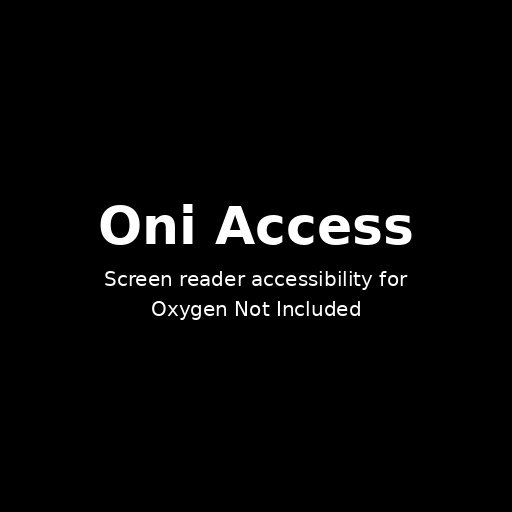
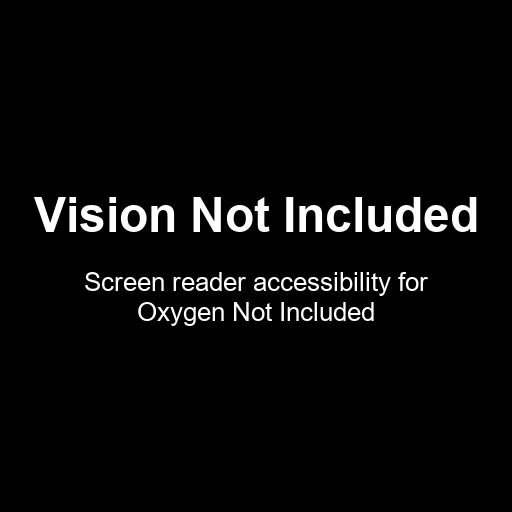
Rebrand mod to Vision Not Included
Rename all user-facing text from Oni Access to Vision Not Included:
spoken announcements, mod title, docs, EnableMod tool dialogs (Windows
and Mac), and the preview image. Internal identifiers (namespace,
staticID, translation keys, folders) stay OniAccess to preserve existing
users' settings and translations. Rebuilt EnableMod.exe.

Changed region(s): [[0.0625, 0.375, 0.9375, 0.5], [0.1562, 0.5312, 0.8438, 0.6562]]

diff --git a/EnableMod/Program.cs b/EnableMod/Program.cs
@@ -44,15 +44,15 @@ static class Program {
 			} catch (Exception ex) {
 				MessageBox.Show(
 					"Failed to update mod config: " + ex.Message,
-					"OniAccess",
+					"Vision Not Included",
 					MessageBoxButtons.OK,
 					MessageBoxIcon.Error);
 				return;
 			}
 
 			var result = MessageBox.Show(
-				"OniAccess enabled. Launch the game?",
-				"OniAccess",
+				"Vision Not Included enabled. Launch the game?",
+				"Vision Not Included",
 				MessageBoxButtons.YesNo,
 				MessageBoxIcon.Information);
 			if (result == DialogResult.Yes)
@@ -130,7 +130,7 @@ static class Program {
 
 	static NotFoundAction ShowNotFoundDialog() {
 		using (var form = new Form()) {
-			form.Text = "OniAccess";
+			form.Text = "Vision Not Included";
 			form.StartPosition = FormStartPosition.CenterScreen;
 			form.FormBorderStyle = FormBorderStyle.FixedDialog;
 			form.MaximizeBox = false;
@@ -138,7 +138,7 @@ static class Program {
 			form.ClientSize = new System.Drawing.Size(450, 140);
 
 			var message = new Label {
-				Text = "Could not find the OniAccess mod config.\n\n" +
+				Text = "Could not find the Vision Not Included mod config.\n\n" +
 					   "If you haven't subscribed yet, click Open Workshop Page.\n" +
 					   "If you have subscribed, launch the game once, close it, then click Try Again.",
 				Location = new System.Drawing.Point(12, 12),

diff --git a/OniAccess/OniAccessStrings.cs b/OniAccess/OniAccessStrings.cs
@@ -17,9 +17,9 @@ namespace STRINGS {
 		// System-level speech announcements
 		public class SPEECH {
 			// {0} = mod version string (e.g. "1.2.3")
-			public static LocString MOD_LOADED = "Oni-Access version {0} loaded";
-			public static LocString MOD_ON = "Oni-Access on";
-			public static LocString MOD_OFF = "Oni-Access off";
+			public static LocString MOD_LOADED = "Vision Not Included version {0} loaded";
+			public static LocString MOD_ON = "Vision Not Included on";
+			public static LocString MOD_OFF = "Vision Not Included off";
 			public static LocString NO_COMMANDS = "No commands available in this context";
 			// {0} = screen handler display name (e.g. "Key Bindings", "Minion Select")
 			public static LocString HANDLER_FAILED = "Error, {0} failed";
@@ -38,7 +38,7 @@ namespace STRINGS {
 
 		// Hotkey action descriptions shown in key binding UI
 		public class HOTKEYS {
-			public static LocString TOGGLE_MOD = "Toggle Oni-Access on/off";
+			public static LocString TOGGLE_MOD = "Toggle Vision Not Included on/off";
 		}
 
 		// Screen handler display names, announced when a screen opens

diff --git a/OniAccess/ModToggle.cs b/OniAccess/ModToggle.cs
@@ -6,9 +6,9 @@ namespace OniAccess {
 	/// Mod on/off toggle with full handler-stack integration.
 	///
 	/// Per locked decisions:
-	/// - Toggle OFF: speak "Oni-Access off" THEN full disable (deactivate all handlers,
+	/// - Toggle OFF: speak "Vision Not Included off" THEN full disable (deactivate all handlers,
 	///   stop speech, set flag). Speech must happen BEFORE disable.
-	/// - Toggle ON: set flag first, enable speech, speak "Oni-Access on", detect current
+	/// - Toggle ON: set flag first, enable speech, speak "Vision Not Included on", detect current
 	///   state and activate handler. NO state dump.
 	/// - No background work when off -- full stop.
 	/// - Only Ctrl+Shift+F12 remains active when mod is off (handled by KeyPoller directly).

diff --git a/getting-started.md b/getting-started.md
@@ -1,4 +1,4 @@
-# OniAccess
+# Vision Not Included
 
 An accessibility mod for Oxygen Not Included that makes the game playable for blind users. All game information is delivered through speech output via your screen reader (using the Prism library). The mod doesn't change game behavior, only adds speech.
 
@@ -16,7 +16,7 @@ An accessibility mod for Oxygen Not Included that makes the game playable for bl
    - Uncheck "Enable the Steam Overlay while in-game".
    - Clear or change the "Screenshot shortcut key".
 3. Launch the game once, then close it. This lets the game discover the mod.
-4. Download and run the EnableMod tool. On Windows, use [EnableMod.exe](https://github.com/rashadnaqeeb/OniAccess/raw/main/EnableMod.exe). On Mac, use [EnableMod.app](https://github.com/rashadnaqeeb/OniAccess/raw/main/EnableMod.app.zip) (right-click > Open the first time to bypass Gatekeeper). It enables the mod in the game's config so you don't have to navigate the mod manager, and offers to launch the game. If the mod ever crashes and the game disables it, run it again to re-enable.
+4. Download and run the EnableMod tool. On Windows, use [EnableMod.exe](https://github.com/rashadnaqeeb/VisionNotIncluded/raw/main/EnableMod.exe). On Mac, use [EnableMod.app](https://github.com/rashadnaqeeb/VisionNotIncluded/raw/main/EnableMod.app.zip) (right-click > Open the first time to bypass Gatekeeper). It enables the mod in the game's config so you don't have to navigate the mod manager, and offers to launch the game. If the mod ever crashes and the game disables it, run it again to re-enable.
 5. Launch the game. The mod will announce when it's ready.
 
 Updates are delivered automatically through the Steam Workshop.
@@ -25,13 +25,13 @@ Updates are delivered automatically through the Steam Workshop.
 
 Use the Steam Workshop install above if at all possible. It handles updates automatically and is the primary distribution method. This manual method is only for players in regions where the Steam Workshop is unavailable.
 
-1. Download the latest release zip from the [GitHub releases page](https://github.com/rashadnaqeeb/OniAccess/releases).
+1. Download the latest release zip from the [GitHub releases page](https://github.com/rashadnaqeeb/VisionNotIncluded/releases).
 2. Extract the zip into your local mods folder: `Documents\Klei\OxygenNotIncluded\mods\local\OniAccess\` on Windows or `~/Library/Application Support/unity.Klei.Oxygen Not Included/mods/local/OniAccess/` on Mac. Create the folder if it doesn't exist. The folder should contain `OniAccess.dll`, `mod.yaml`, `mod_info.yaml`, and the `native`, `translations`, and `audio` folders directly -- not nested inside an extra subfolder.
 3. Disable two Steam hotkeys that interfere with the mod:
    - Open Steam > Settings > In-Game.
    - Uncheck "Enable the Steam Overlay while in-game".
    - Clear or change the "Screenshot shortcut key".
-4. Download and run the EnableMod tool. On Windows, use [EnableMod.exe](https://github.com/rashadnaqeeb/OniAccess/raw/main/EnableMod.exe). On Mac, use [EnableMod.app](https://github.com/rashadnaqeeb/OniAccess/raw/main/EnableMod.app.zip) (right-click > Open the first time to bypass Gatekeeper). It enables the mod in the game's config so you don't have to navigate the mod manager, and offers to launch the game. If the mod ever crashes and the game disables it, run it again to re-enable.
+4. Download and run the EnableMod tool. On Windows, use [EnableMod.exe](https://github.com/rashadnaqeeb/VisionNotIncluded/raw/main/EnableMod.exe). On Mac, use [EnableMod.app](https://github.com/rashadnaqeeb/VisionNotIncluded/raw/main/EnableMod.app.zip) (right-click > Open the first time to bypass Gatekeeper). It enables the mod in the game's config so you don't have to navigate the mod manager, and offers to launch the game. If the mod ever crashes and the game disables it, run it again to re-enable.
 5. Launch the game. The mod will announce when it's ready.
 
 To update, download the new release zip and extract it into the same folder, overwriting the existing files.

diff --git a/README.md b/README.md
@@ -1,6 +1,6 @@
-# OniAccess Reference
+# Vision Not Included Reference
 
-OniAccess is an accessibility mod that makes Oxygen Not Included playable for blind users through screen reader speech output. This is the full feature reference. For install instructions and getting started, see [getting-started.md](getting-started.md). For recent changes, see [changes.md](changes.md).
+Vision Not Included is an accessibility mod that makes Oxygen Not Included playable for blind users through screen reader speech output. This is the full feature reference. For install instructions and getting started, see [getting-started.md](getting-started.md). For recent changes, see [changes.md](changes.md).
 
 ## Context help and mod toggle
 
@@ -447,7 +447,7 @@ If something isn't working, the player log usually has the answer. It's at `%USE
 ## Credits
 
 - **aaronr7734** — His work on Rimworld Access directly inspired many of the mod's complex UI adaptations, including the schedule screen, type-ahead search, and scanner search.
-- **Alexandr Epaneshnikov (alex19EP)** — Started the OniAccess project and provided much of the initial research.
+- **Alexandr Epaneshnikov (alex19EP)** — Started the Vision Not Included project and provided much of the initial research.
 - **Austin Hicks (ahicks)** — His general advice and work on Factorio Access inspired much of the mod's infrastructure. Many of the mod's core systems are lifted directly from Factorio Access.
 - **Brad Renshaw (chaosbringer216)** — Helped me keep my code organized, teaching me OOP along the way. His Slay the Spire mod inspired the graph/node tree approach.
 - **Keltosh_** — Provided the earcon sounds used for pipe and wire presence detection.

diff --git a/changes.md b/changes.md
@@ -2,6 +2,8 @@
 
 ## Unreleased changes since 1.5.1
 
+- Renamed the mod to Vision Not Included.
+
 ## 1.5.1
 
 - Fix the Apply button being unreachable in graphics settings: it now appears in the list as soon as a setting change enables it, so you can apply your changes.